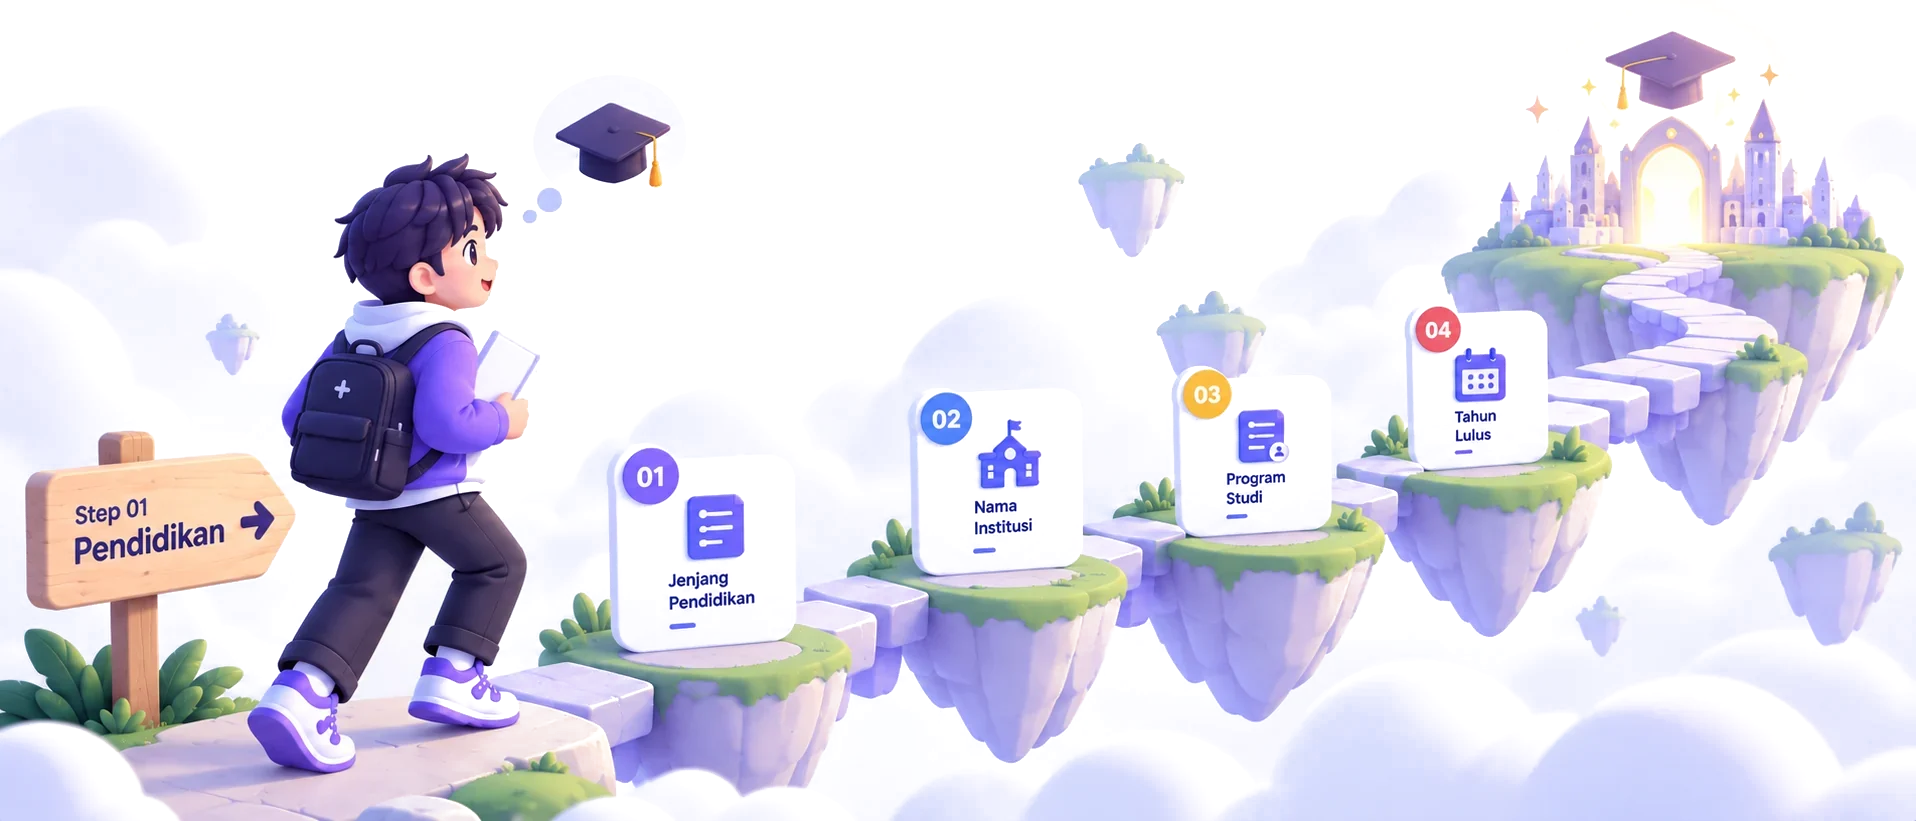
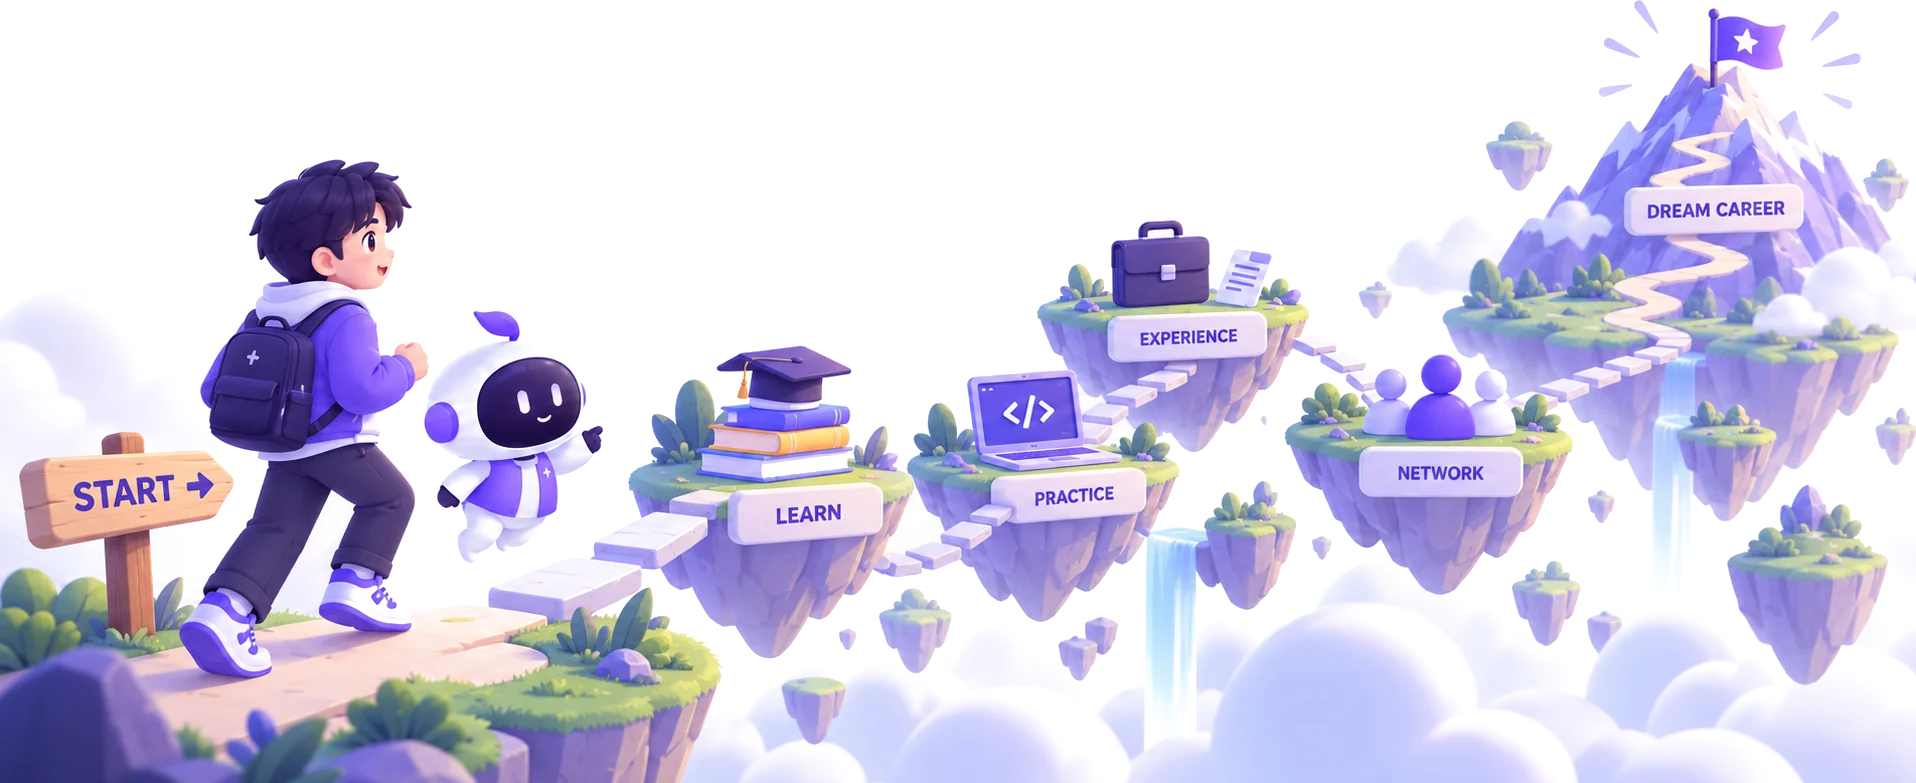
feat(landing): ikuti rombakan desain terbaru
- Bagian "Career Knowledge Graph" dihapus; tidak ada lagi di desain
- Daftar fitur jadi rata kiri dengan ikon sebaris judul di ponsel, tetap
  lima kolom di layar lebar
- Ilustrasi perjalanan diganti versi desain (START - LEARN - PRACTICE -
  EXPERIENCE - NETWORK - DREAM CAREER); yang lama ternyata ilustrasi
  langkah onboarding
- Kartu penutup: gunung jadi anak flex, bukan lapisan melayang, karena di
  layar sedang teksnya tertimpa; di ponsel ia menutup kartu dari bawah
- Kaki halaman memakai lockup "Career path journey - Sub1 Studio"
- Judul bagian dashboard mengikuti desain: "Navika yang Bantu Arahkan"

diff --git a/frontend/src/app/page.tsx b/frontend/src/app/page.tsx
@@ -12,12 +12,23 @@ import {
   TrendingUp,
   Trophy,
   CheckCircle2,
-  Settings,
   Globe,
 } from "lucide-react";
 import { supabase } from "@/lib/supabaseClient";
 import { postLoginDestination, HOME_AFTER_ONBOARDING } from "@/lib/postAuth";
 import type { User } from "@supabase/supabase-js";
+
+/** lucide-react v1 tidak lagi membawa ikon merek, jadi Instagram digambar di sini. */
+function IkonInstagram({ className = "" }: { className?: string }) {
+  return (
+    <svg viewBox="0 0 24 24" fill="none" stroke="currentColor" strokeWidth="2"
+         strokeLinecap="round" strokeLinejoin="round" className={className} aria-hidden>
+      <rect x="2" y="2" width="20" height="20" rx="5" />
+      <circle cx="12" cy="12" r="4" />
+      <circle cx="17.5" cy="6.5" r="1" fill="currentColor" stroke="none" />
+    </svg>
+  );
+}
 
 const TARGET_USERS = [
   {
@@ -197,18 +208,20 @@ export default function LandingPage() {
             melalui rekomendasi personal, roadmap terstruktur, dan progres yang mudah dipahami.
           </p>
 
-          <div className="mt-10 grid grid-cols-1 sm:grid-cols-3 lg:grid-cols-5 gap-6">
+          {/* Ponsel: daftar rata kiri dengan ikon sebaris judul, seperti desain.
+              Layar lebar: lima kolom bersebelahan, ikonnya di atas judul. */}
+          <div className="mt-10 grid grid-cols-1 gap-7 text-left sm:grid-cols-3 sm:gap-6 sm:text-center lg:grid-cols-5">
             {PRODUCT_FEATURES.map((feature) => {
               const Icon = feature.icon;
               return (
-                <div key={feature.name} className="flex flex-row sm:flex-col items-center sm:text-center gap-4 sm:gap-0 text-left">
-                  <div className="w-12 h-12 rounded-full bg-slate-100 flex items-center justify-center text-slate-600 shrink-0">
-                    <Icon className="w-5 h-5" />
+                <div key={feature.name} className="sm:flex sm:flex-col sm:items-center">
+                  <div className="flex items-center gap-2.5 sm:flex-col sm:gap-0">
+                    <Icon className="w-5 h-5 shrink-0 text-indigo-500 sm:mb-3 sm:h-6 sm:w-6" />
+                    <div className="text-base font-bold text-slate-900 sm:text-sm">{feature.name}</div>
                   </div>
-                  <div className="sm:mt-3">
-                    <div className="text-sm font-bold text-slate-900">{feature.name}</div>
-                    <p className="mt-1 text-xs text-slate-500 leading-relaxed">{feature.description}</p>
-                  </div>
+                  <p className="mt-1.5 text-sm text-slate-500 leading-relaxed sm:mt-1 sm:text-xs">
+                    {feature.description}
+                  </p>
                 </div>
               );
             })}
@@ -236,7 +249,7 @@ export default function LandingPage() {
             <h2 className="mt-4 text-2xl sm:text-3xl font-bold text-white leading-tight">
               Fokus pada Langkahmu,
               <br />
-              Kami yang Bantu Arahkan
+              Navika yang Bantu Arahkan
             </h2>
             <p className="mt-3 text-sm text-indigo-100 max-w-md mx-auto lg:mx-0 leading-relaxed">
               Lihat tugas hari ini, milestone berikutnya, dan progress perjalanan kariermu dalam
@@ -264,37 +277,12 @@ export default function LandingPage() {
         </div>
       </section>
 
-      {/* Career Knowledge Graph */}
-      <section className="bg-white py-16 sm:py-20">
-        <div className="max-w-6xl mx-auto px-4 sm:px-6 lg:px-8 grid lg:grid-cols-2 gap-12 items-center">
-          <div className="text-center lg:text-left">
-            <div className="text-xs font-bold uppercase tracking-wide text-indigo-600">Career Building</div>
-            <h2 className="mt-2 text-2xl sm:text-3xl font-bold text-slate-900 leading-tight">
-              Menggunakan Career
-              <br className="hidden sm:block" /> Knowledge Graph
-            </h2>
-            <p className="mt-3 text-sm text-slate-500 max-w-md mx-auto lg:mx-0 leading-relaxed">
-              Diambil dari berbagai sumber dan semua entitas data saling terhubung untuk
-              menampilkan rekomendasi yang lebih relevan dan akurat.
-            </p>
-          </div>
-
-          <div className="max-w-xs mx-auto w-full">
-            <Image
-              src="/landing/knowledge-graph.png"
-              alt="Ilustrasi Career Knowledge Graph"
-              width={384}
-              height={555}
-              className="w-full h-auto"
-            />
-          </div>
-        </div>
-      </section>
-
       {/* Closing CTA */}
       <section className="px-4 sm:px-6 lg:px-8 pb-16 sm:pb-20">
-        <div className="max-w-6xl mx-auto relative overflow-hidden rounded-3xl bg-gradient-to-r from-indigo-700 via-purple-700 to-indigo-800 px-6 sm:px-10 py-10 sm:py-12 flex flex-col sm:flex-row items-center gap-6 text-center sm:text-left min-h-[220px] sm:min-h-[260px]">
-          <div className="absolute left-0 sm:left-4 bottom-0 w-64 sm:w-96 opacity-95 pointer-events-none hidden sm:block">
+        <div className="max-w-6xl mx-auto overflow-hidden rounded-3xl bg-gradient-to-r from-indigo-700 via-purple-700 to-indigo-800 px-6 sm:px-10 pt-10 sm:py-12 flex flex-col sm:flex-row sm:items-center gap-6 sm:gap-8 text-center sm:text-left">
+          {/* Ilustrasinya jadi anak flex, bukan lapisan melayang: di layar
+              sedang teksnya sempat tertimpa gunung waktu memakai posisi absolut. */}
+          <div className="order-last w-full max-w-xs mx-auto -mb-10 shrink-0 pointer-events-none sm:order-none sm:mx-0 sm:mb-0 sm:-ml-4 sm:w-44 sm:max-w-none sm:self-end lg:w-60">
             <Image
               src="/landing/mountain-glow.webp"
               alt=""
@@ -304,7 +292,7 @@ export default function LandingPage() {
             />
           </div>
 
-          <div className="relative flex-1 sm:pl-40 lg:pl-48">
+          <div className="flex-1">
             <h2 className="text-xl sm:text-2xl font-bold text-white leading-snug">
               Masa depan tidak dibangun dalam semalam,
               <br />
@@ -317,7 +305,7 @@ export default function LandingPage() {
 
           <Link
             href={startJourneyHref}
-            className="relative inline-flex items-center gap-2 px-6 py-3 rounded-full bg-white text-slate-900 text-sm font-bold shadow-md hover:shadow-lg transition-all shrink-0 cursor-pointer border-0 outline-none"
+            className="inline-flex items-center gap-2 px-6 py-3 rounded-full bg-white text-slate-900 text-sm font-bold shadow-md hover:shadow-lg transition-all shrink-0 cursor-pointer border-0 outline-none"
           >
             Mulai Gratis
             <ArrowRight className="w-4 h-4 text-slate-900" />
@@ -328,17 +316,24 @@ export default function LandingPage() {
       {/* Footer */}
       <footer className="border-t border-slate-100 py-8">
         <div className="max-w-7xl mx-auto px-4 sm:px-6 lg:px-8 flex flex-col sm:flex-row items-center justify-between gap-4">
-          <Image
-            src="/navika-logo.png"
-            alt="Navika"
-            width={101}
-            height={32}
-            className="h-6 w-auto"
-          />
+          <div className="flex items-center gap-3">
+            <Image
+              src="/navika-logo.png"
+              alt="Navika"
+              width={101}
+              height={32}
+              className="h-6 w-auto"
+            />
+            <span className="h-7 w-px bg-slate-200" aria-hidden />
+            <span className="leading-tight">
+              <span className="block text-[13px] font-semibold text-slate-900">Career path journey</span>
+              <span className="block text-[11px] text-slate-400">Sub1 Studio</span>
+            </span>
+          </div>
 
           <div className="flex items-center gap-4 text-slate-400">
-            <Settings className="w-4 h-4" />
             <Globe className="w-4 h-4" />
+            <IkonInstagram className="w-4 h-4" />
             <p className="text-xs text-slate-400">
               Brewed with creativity and love by Sub1 Studio. &copy; 2026. All rights reserved.
             </p>
